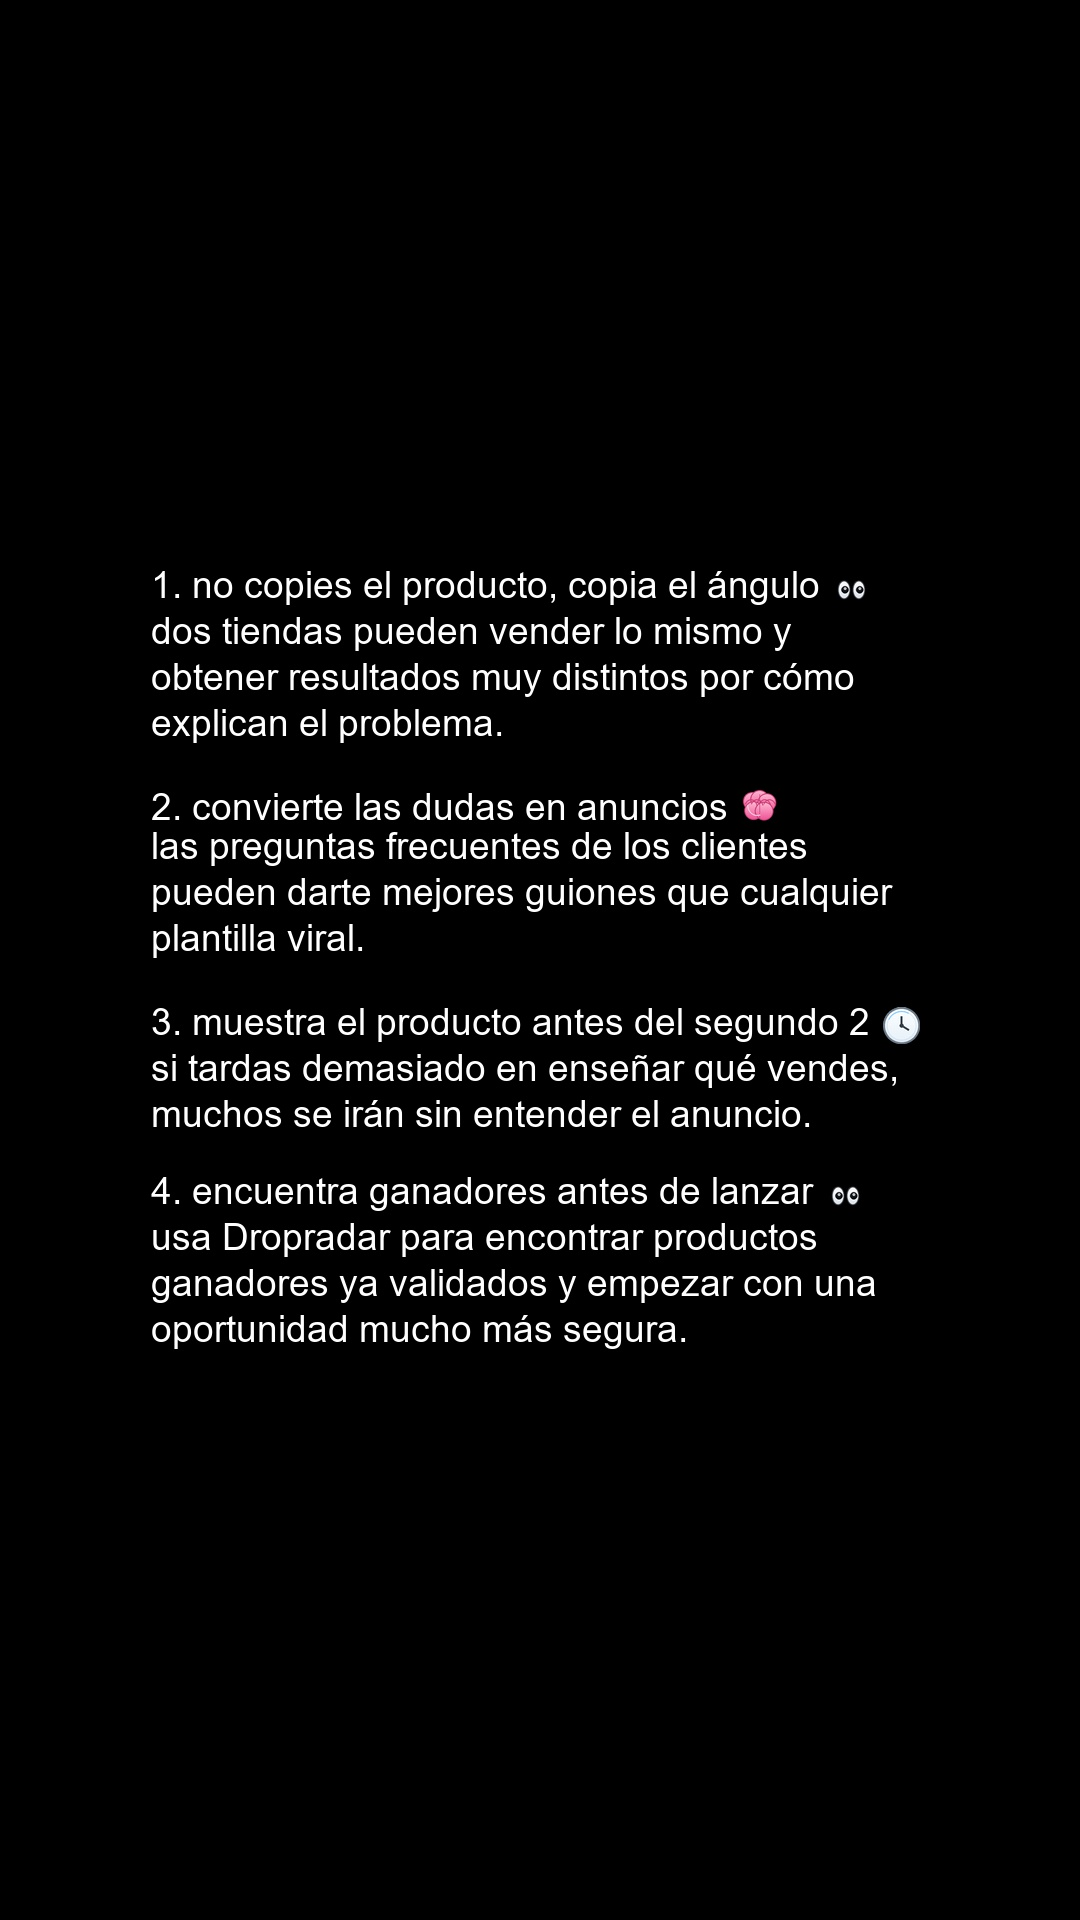
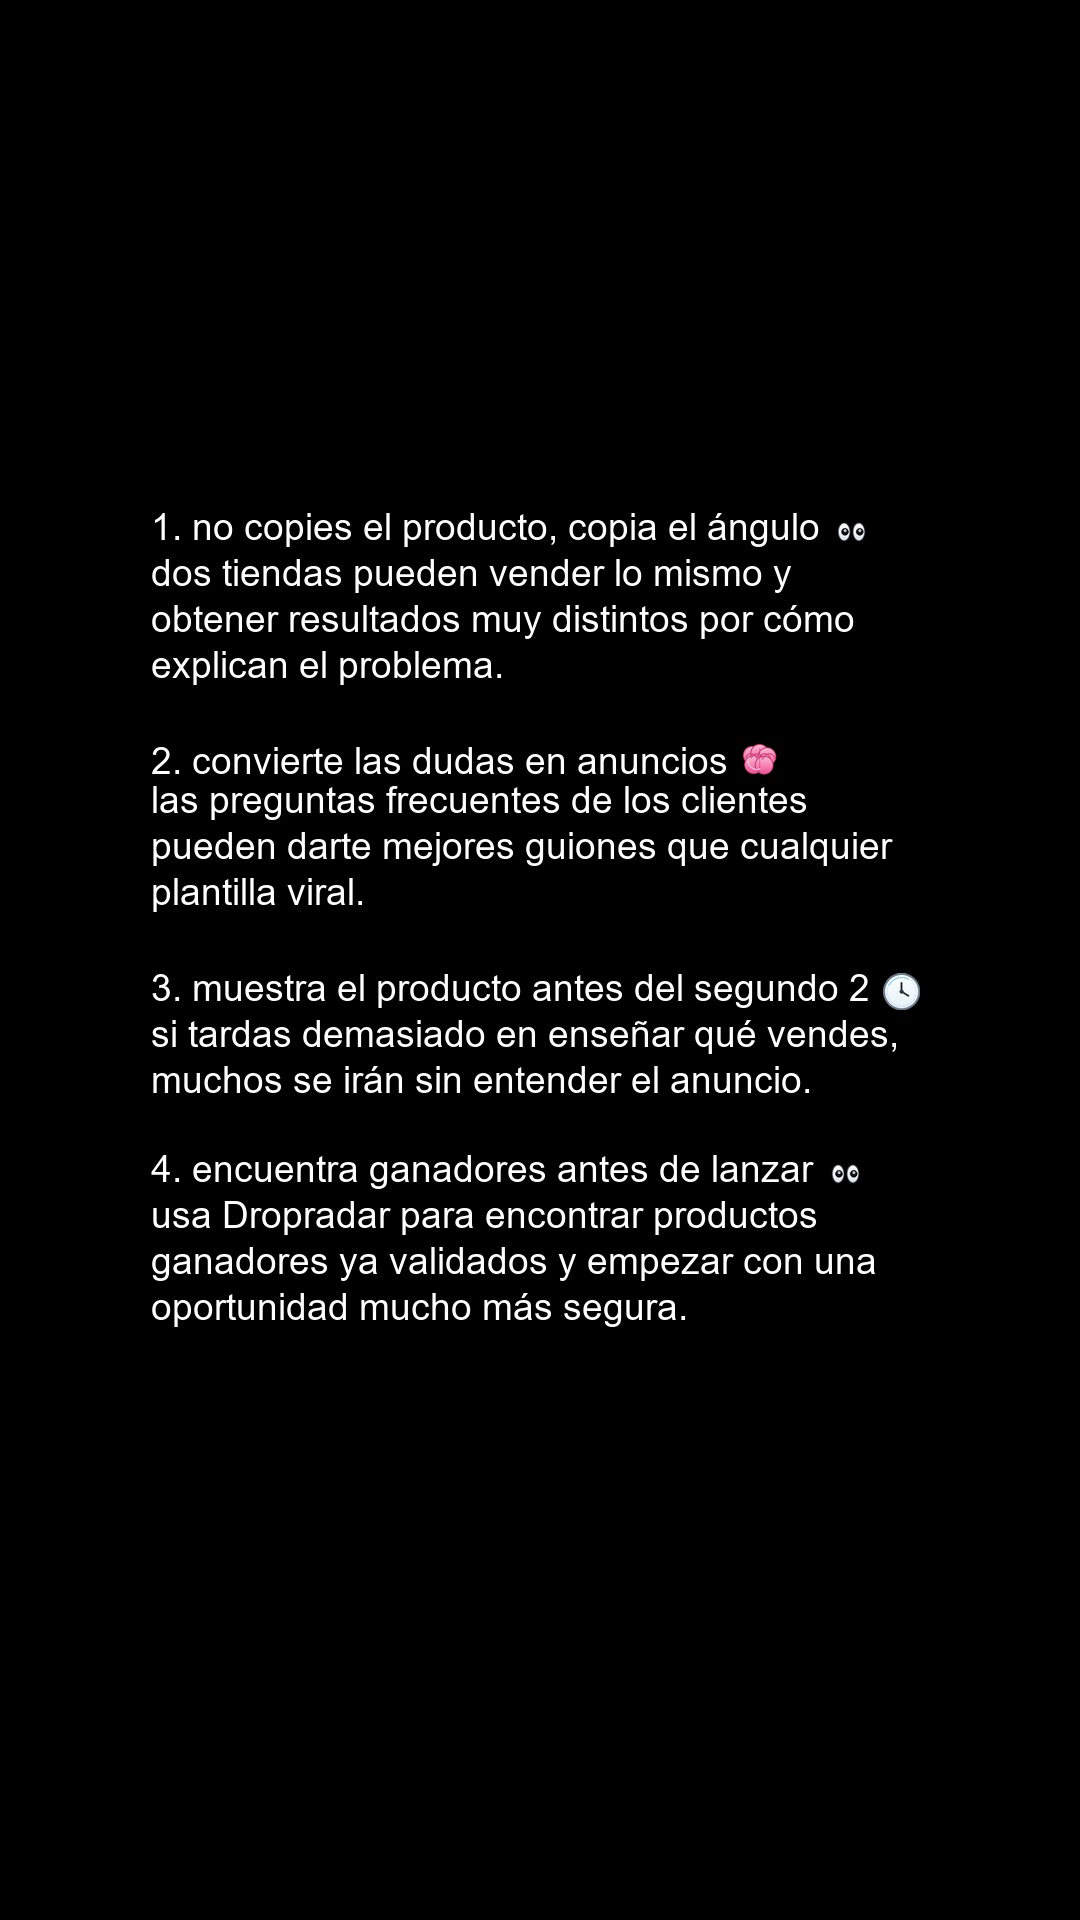
c

Changed region(s): [[0.1222, 0.25, 0.8556, 0.7188]]

diff --git a/app/advice_cards.py b/app/advice_cards.py
@@ -215,6 +215,63 @@ ADVICE_EXTERNAL_PHRASES: dict[Language, str] = {
     ),
 }
 
+ADVICE_SOCIAL_DESCRIPTIONS: dict[Language, tuple[str, ...]] = {
+    Language.ES: (
+        "4 consejos de dropshipping para detectar mejores oportunidades y encontrar "
+        "productos ganadores validados. Usa Dropradar para investigar tu próxima "
+        "idea antes de lanzar.",
+        "Elegir producto no debería ser una apuesta. Aplica estos consejos y usa "
+        "Dropradar para encontrar productos ganadores validados antes de invertir.",
+        "Los productos ganadores dejan señales: aprende a reconocerlas en anuncios, "
+        "packs y comentarios. Dropradar te ayuda a encontrar oportunidades "
+        "validadas.",
+        "Antes de gastar en anuncios, encuentra una oportunidad más segura. Estos "
+        "consejos y Dropradar te ayudan a localizar productos ganadores validados.",
+    ),
+    Language.EN: (
+        "4 dropshipping tips to spot better opportunities and find validated winning "
+        "products. Use Dropradar to research your next idea before launching.",
+        "Choosing a product should not be a guess. Use these tips and Dropradar to "
+        "find validated winning products before you invest.",
+        "Winning products leave signals: learn to spot them in ads, bundles and "
+        "comments. Dropradar helps you find validated opportunities.",
+        "Before spending on ads, start with a safer opportunity. These tips and "
+        "Dropradar help you find validated winning products.",
+    ),
+}
+
+ADVICE_SOCIAL_HASHTAGS: dict[Language, tuple[str, ...]] = {
+    Language.ES: (
+        "#dropshipping",
+        "#productosganadores",
+        "#ecommerce",
+        "#shopify",
+        "#dropradar",
+    ),
+    Language.EN: (
+        "#dropshipping",
+        "#winningproducts",
+        "#ecommerce",
+        "#shopify",
+        "#dropradar",
+    ),
+}
+
+
+def advice_social_copy(
+    language: Language,
+    pack_index: int,
+) -> tuple[str, str, list[str]]:
+    """Return TikTok-ready title, description and hashtags for an advice card."""
+    descriptions = ADVICE_SOCIAL_DESCRIPTIONS[language]
+    hashtags = ADVICE_SOCIAL_HASHTAGS[language]
+    index = max(0, int(pack_index)) % len(descriptions)
+    return (
+        ADVICE_EXTERNAL_PHRASES[language],
+        descriptions[index],
+        list(hashtags),
+    )
+
 ADVICE_ILLUSTRATED_TITLES: dict[Language, tuple[str, str]] = {
     Language.ES: (
         "4 reglas para vender más con dropshipping",
@@ -257,6 +314,14 @@ def validate_advice_content() -> None:
     for language, packs in ADVICE_PACKS.items():
         if len(packs) != expected_pack_count:
             raise ValueError("Los idiomas no tienen el mismo número de guiones tipo 4.")
+        if len(ADVICE_SOCIAL_DESCRIPTIONS[language]) != len(packs):
+            raise ValueError(
+                f"Faltan descripciones sociales para los consejos en {language.value}."
+            )
+        if len(ADVICE_SOCIAL_HASHTAGS[language]) < 3:
+            raise ValueError(
+                f"Los consejos en {language.value} necesitan hashtags relacionados."
+            )
         for tips in packs:
             if len(tips) != 4:
                 raise ValueError("Cada guion tipo 4 debe contener exactamente 4 consejos.")

diff --git a/app/render.py b/app/render.py
@@ -135,7 +135,9 @@ TYPE_4_EN_PAYMENTS_LABEL_EXTRA_WIDTH = 48
 ADVICE_FLAT_TEXT_SIZE = 43
 ADVICE_FLAT_MIN_TEXT_SIZE = 30
 ADVICE_FLAT_SIDE_MARGIN = 150
-ADVICE_FLAT_BLOCK_GAP = 48
+ADVICE_FLAT_SAFE_TOP = 220
+ADVICE_FLAT_SAFE_BOTTOM = 300
+ADVICE_FLAT_BLOCK_GAP = 60
 ADVICE_FLAT_LINE_GAP = 10
 ADVICE_FLAT_EMOJI_GAP = 12
 ADVICE_ILLUSTRATED_CARD_RADIUS = 28
@@ -452,7 +454,12 @@ class VideoRenderer:
         if selected_font is None:
             return
         total_height = sum(selected_heights) + block_gap * (len(selected_blocks) - 1)
-        y = max(_scale_y(120, height), (height - total_height) // 2)
+        safe_top = _scale_y(ADVICE_FLAT_SAFE_TOP, height)
+        safe_height = max(
+            1,
+            height - safe_top - _scale_y(ADVICE_FLAT_SAFE_BOTTOM, height),
+        )
+        y = safe_top + max(0, (safe_height - total_height) // 2)
         x = (width - max_width) // 2
         for block_index, (lines, title_line_count) in enumerate(selected_blocks):
             for line_index, line in enumerate(lines):

diff --git a/app/service.py b/app/service.py
@@ -15,8 +15,8 @@ from uuid import uuid4
 from PIL import Image
 
 from app.advice_cards import (
-    ADVICE_EXTERNAL_PHRASES,
     ADVICE_ROTATION_CYCLE_LENGTH,
+    advice_social_copy,
     advice_selection,
     format_advice_script,
 )
@@ -666,10 +666,14 @@ class VideoCreationService:
             fallback_accounts=[],
         )
         script_path = self.renderer.write_script(plan, job_dir)
+        social_title, social_description, social_hashtags = advice_social_copy(
+            language,
+            pack_index,
+        )
         social_copy = SocialCopy(
-            title=ADVICE_EXTERNAL_PHRASES[language],
-            description="",
-            hashtags=[],
+            title=social_title,
+            description=social_description,
+            hashtags=social_hashtags,
         )
         self.state.log_job(
             self.state.build_job_record(

diff --git a/tests/test_advice_cards.py b/tests/test_advice_cards.py
@@ -5,6 +5,7 @@ from app.advice_cards import (
     ADVICE_ROTATION_CYCLE_LENGTH,
     AdviceBackground,
     advice_selection,
+    advice_social_copy,
 )
 from app.models import Language
 
@@ -51,3 +52,18 @@ def test_advice_external_phrases_match_requested_copy():
     assert ADVICE_EXTERNAL_PHRASES[Language.ES] == (
         "un dropshipper millonario me contó la regla número #1 para vender fácilmente"
     )
+
+
+def test_advice_social_copy_has_description_and_related_hashtags():
+    title, description, hashtags = advice_social_copy(Language.ES, 0)
+
+    assert title == ADVICE_EXTERNAL_PHRASES[Language.ES]
+    assert "Dropradar" in description
+    assert "productos ganadores" in description
+    assert hashtags == [
+        "#dropshipping",
+        "#productosganadores",
+        "#ecommerce",
+        "#shopify",
+        "#dropradar",
+    ]

diff --git a/tests/test_render.py b/tests/test_render.py
@@ -81,6 +81,20 @@ def test_type_4_flat_advice_cards_invert_background_and_text_colors():
     assert (white_pixels.max(axis=2) - white_pixels.min(axis=2) > 50).mean() > 0.0005
 
 
+def test_type_4_flat_advice_cards_use_tiktok_safe_vertical_area():
+    renderer = VideoRenderer(replace(get_settings(), width=1080, height=1920))
+    image = renderer.render_advice_card(
+        ADVICE_PACKS[Language.ES][0],
+        Language.ES,
+        AdviceBackground.BLACK,
+    )
+    pixels = np.asarray(image)
+    rows = np.where((pixels.max(axis=2) > 30).any(axis=1))[0]
+
+    assert rows.min() >= 450
+    assert rows.max() <= 1400
+
+
 def test_type_4_flat_advice_title_reserves_room_for_emoji():
     renderer = VideoRenderer(replace(get_settings(), width=360, height=640))
     image = Image.new("RGBA", (360, 640), (255, 255, 255, 255))

diff --git a/tests/test_service.py b/tests/test_service.py
@@ -534,6 +534,16 @@ def test_advice_type_4_needs_no_accounts_and_rotates_background_and_copy():
         assert english.social_copy.title == (
             "A millionaire dropshipper told me rule number #1 for selling easily"
         )
+        assert spanish.social_copy.description
+        assert "Dropradar" in spanish.social_copy.description
+        assert "productos ganadores" in spanish.social_copy.description
+        assert spanish.social_copy.hashtags == [
+            "#dropshipping",
+            "#productosganadores",
+            "#ecommerce",
+            "#shopify",
+            "#dropradar",
+        ]
         assert "Dropradar" in english.preview_text
         assert service.state.get_type_4_advice_phase(cycle_length=12) == 2
     finally:
